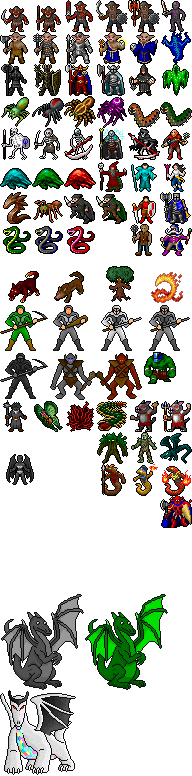
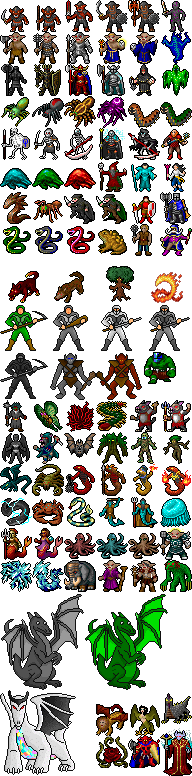
added more (unbalanced encounters). Fix for Aylas quest, and finding your partner after coliseum

Changed region(s): [[0.0, 0.5567, 1.0, 0.7732], [0.5, 0.8969, 1.0, 1.0], [0.5, 0.2784, 0.6562, 0.3402]]

diff --git a/src/res.cpp b/src/res.cpp
@@ -3785,8 +3785,43 @@ s_erow erows[NUM_ETROWS] = {
     { 25, 12, 90, { 5, 62, 62, 0, 0 } },    { 25, 12, 100, { 63, 0, 0, 0, 0 } },
     { 26, 16, 30, { 25, 64, 0, 0, 0 } },    { 26, 16, 60, { 25, 25, 0, 0, 0 } },
     { 26, 16, 100, { 64, 64, 64, 0, 0 } },  { 27, 100, 100, { 65, 0, 0, 0, 0 } },
-    { 28, 100, 100, { 66, 0, 0, 0, 0 } },
+    { 28, 100, 100, { 66, 0, 0, 0, 0 } },   
+    
+    { 29, 33, 33, { 68, 68, 0, 0, 0 } },    { 29, 33, 66, { 67, 67, 35, 0, 0 } },
+    { 29, 33, 100, { 67, 69, 67, 0, 0 } },
 
+    { 30, 33, 33, { 68, 68, 68, 0, 0 } },  { 30, 33, 66, { 67, 69, 67, 0, 0 } },
+    { 30, 34, 100, { 69, 69, 0, 0, 0 } },  { 30, 34, 0, { 69, 70, 69, 0, 0 } },    
+
+    { 31, 33, 50, { 68, 68, 68, 0, 0 } },   { 31, 33, 100, { 59, 59, 59, 0, 0 } },
+
+    { 32, 33, 25, { 89, 90, 80, 0, 0 } },   { 32, 33, 50, { 80, 81, 80, 0, 0 } },
+    { 32, 34, 75, { 81, 82, 88, 0, 0 } },   { 32, 34, 100, { 81, 82, 83, 0, 0 } },
+
+    { 33, 33, 25, { 84, 83, 82, 0, 0 } },   { 33, 33, 50, { 84, 88, 89, 0, 0 } },
+    { 33, 34, 75, { 84, 86, 92, 0, 0 } },   { 33, 34, 100, { 84, 80, 84, 0, 0 } },
+    { 33, 34, 0,  {86, 85, 87, 84, 0 } },
+
+    { 34, 33, 25, { 74, 74, 0, 0, 0 } },    { 34, 33, 50, { 76, 74, 76, 0, 0 } },
+    { 34, 33, 75, { 76, 77, 76, 0, 0 } },   { 34, 33, 100, { 76, 78, 76, 0, 0 } },
+
+    { 35, 33, 33, { 75, 75, 75, 0, 0 } },   { 35, 33, 66, { 77, 78, 78, 0, 0 } },
+    { 35, 34, 100, { 77, 78, 79, 0, 0 } },
+
+    { 36, 33, 25, { 74, 74, 74, 0, 0 } },   { 36, 33, 50, { 72, 71, 73, 0, 0 } },
+    { 36, 34, 75, { 72, 72, 0, 0, 0 } },    { 36, 34, 100, { 73, 71, 73, 0, 0 } },
+
+    { 37, 33, 25, { 93, 93, 0, 0, 0 } },    { 37, 33, 50, { 94, 94, 0, 0, 0 } },
+    { 37, 34, 75, { 95, 99, 95, 0, 0 } },   { 37, 34, 100, { 94, 93, 95, 0, 0 } },
+
+    { 38, 33, 25, { 98, 96, 98, 0, 0 } },   { 38, 33, 50, { 97, 94, 97, 0, 0 } },
+    { 38, 34, 75, { 97, 99, 95, 0, 0 } },   { 38, 34, 100, { 98, 98, 98, 0, 0 } },
+
+    { 39, 33, 25, { 101, 101, 101, 0, 0 } },  { 39, 33, 50, { 102, 0, 0, 0, 0 } },
+    { 39, 34, 75, { 100, 101, 100, 0, 0 } },  { 39, 34, 100, { 101, 102, 101, 0, 0 } },
+
+    { 40, 33, 50, { 91, 91, 0, 0, 0 } },      { 40, 33, 100, { 91, 91, 91, 0, 0 } },
+    { 40, 34, 0, { 92, 92, 92, 0, 0 } },
 };
 
 /* Format: {Map, Zone, Enc, Etnum, Eidx, "BMusic", "BackImg"}
@@ -3864,6 +3899,27 @@ s_encounter battles[NUM_BATTLES] = {
     { 0, 255, 25, 26, 99, "hm.s3m", "back2.png" },  // 62
     { 0, 255, 1, 27, 99, "hm.s3m", "back2.png" },   // 63
     { 0, 255, 1, 28, 99, "hm.s3m", "back2.png" },   // 64
+
+    { 0, 255, 25, 29, 99, "hm.s3m", "back2.png" },  // 65  cave 6a
+    { 0, 255, 25, 30, 99, "hm.s3m", "back2.png" },  // 66  cave 6b
+    { 0, 255, 1, 30, 3, "hm.s3m", "back2.png" },   // 67  cave 6b boss 
+
+    { 0, 255, 25, 31, 99, "hm.s3m", "back2.png" },  // 68  water tunnel a
+    { 0, 255, 25, 32, 99, "hm.s3m", "back12.png" }, // 69  water tunnel b
+    { 0, 255, 25, 33, 99, "hm.s3m", "back12.png" }, // 70 water tunnel c
+    { 0, 255, 1, 33, 4, "hm.s3m", "back12.png" },  // 71 water tunnel boss
+
+    { 0, 255, 25, 34, 99, "hm.s3m", "back1.png" },  // 72 shrine plains
+    //{ 0, 255, 25, 30, 99, "hm.s3m", "back12.png" }, // 73 test area
+    { 0, 255, 25, 35, 99, "hm.s3m", "back10.png" }, // 73 shrine canyon pass
+    { 0, 255, 25, 36, 99, "hm.s3m", "back7.png" },  // 74 shrine forest
+
+    { 0, 255, 25, 37, 99, "hm.s3m", "back1.png" },  // 75  malks island
+    { 0, 255, 25, 38, 99, "hm.s3m", "back7.png" },  // 76  malks island forest
+    { 0, 255, 25, 39, 99, "hm.s3m", "back10.png" }, // 77 malks mountain pass
+
+    { 0, 255, 25, 40, 99, "hm.s3m", "back2.png" }, // 78 malks crystal cave
+    { 0, 255, 1, 40, 4, "hm.s3m", "back2.png" },   // 79 malks crystal cave boss
 };
 
 char music_victory[10] = "rend5.s3m";

diff --git a/include/res.h b/include/res.h
@@ -37,8 +37,8 @@
 #define NUM_ITEMS 192
 #define NUM_SPELLS 61
 #define NUM_EFFECTS 52
-#define NUM_ETROWS 121
-#define NUM_BATTLES 65
+#define NUM_ETROWS 165
+#define NUM_BATTLES 80
 #define NUM_LUP 20
 /*\}*/
 
